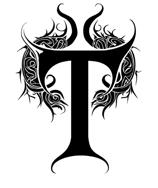
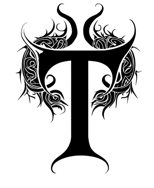
Additional tweak to light Gene Wolfe dropcaps

Changed region(s): [[0.1039, 0.0, 0.9351, 0.9309], [0.3117, 0.7713, 0.4935, 0.9309]]

diff --git a/js/head-GENERATED.js b/js/head-GENERATED.js
@@ -3932,8 +3932,8 @@ GW.assetVersions = {
 	"/static/font/drop-cap/gene-wolfe/light/F-05-small-2x.png": "1702664117",
 	"/static/font/drop-cap/gene-wolfe/light/T-01-small-1x.png": "1702664117",
 	"/static/font/drop-cap/gene-wolfe/light/T-01-small-2x.png": "1702664116",
-	"/static/font/drop-cap/gene-wolfe/light/T-02-small-1x.png": "1702664116",
-	"/static/font/drop-cap/gene-wolfe/light/T-02-small-2x.png": "1702664116",
+	"/static/font/drop-cap/gene-wolfe/light/T-02-small-1x.png": "1702664454",
+	"/static/font/drop-cap/gene-wolfe/light/T-02-small-2x.png": "1702664454",
 	"/static/font/drop-cap/gene-wolfe/light/T-03-small-1x.png": "1702664116",
 	"/static/font/drop-cap/gene-wolfe/light/T-03-small-2x.png": "1702664116",
 	"/static/font/drop-cap/gene-wolfe/light/T-04-small-1x.png": "1702664116",

diff --git a/js/asset-versions-GENERATED.js b/js/asset-versions-GENERATED.js
@@ -226,8 +226,8 @@ GW.assetVersions = {
 	"/static/font/drop-cap/gene-wolfe/light/F-05-small-2x.png": "1702664117",
 	"/static/font/drop-cap/gene-wolfe/light/T-01-small-1x.png": "1702664117",
 	"/static/font/drop-cap/gene-wolfe/light/T-01-small-2x.png": "1702664116",
-	"/static/font/drop-cap/gene-wolfe/light/T-02-small-1x.png": "1702664116",
-	"/static/font/drop-cap/gene-wolfe/light/T-02-small-2x.png": "1702664116",
+	"/static/font/drop-cap/gene-wolfe/light/T-02-small-1x.png": "1702664454",
+	"/static/font/drop-cap/gene-wolfe/light/T-02-small-2x.png": "1702664454",
 	"/static/font/drop-cap/gene-wolfe/light/T-03-small-1x.png": "1702664116",
 	"/static/font/drop-cap/gene-wolfe/light/T-03-small-2x.png": "1702664116",
 	"/static/font/drop-cap/gene-wolfe/light/T-04-small-1x.png": "1702664116",

diff --git a/include/inlined-head.html b/include/inlined-head.html
@@ -919,5 +919,5 @@ a[data-link-icon-type*='svg'] .link-icon-hook::after {
 }
 </style>
 <link rel="stylesheet" href="/static/css/head.css?v=1702591078">
-<script src="/static/js/head.js?v=1702664230"></script>
+<script src="/static/js/head.js?v=1702664492"></script>
 <link rel="preload" href="/static/img/icon/icons.svg?v=1701370313" as="image">
